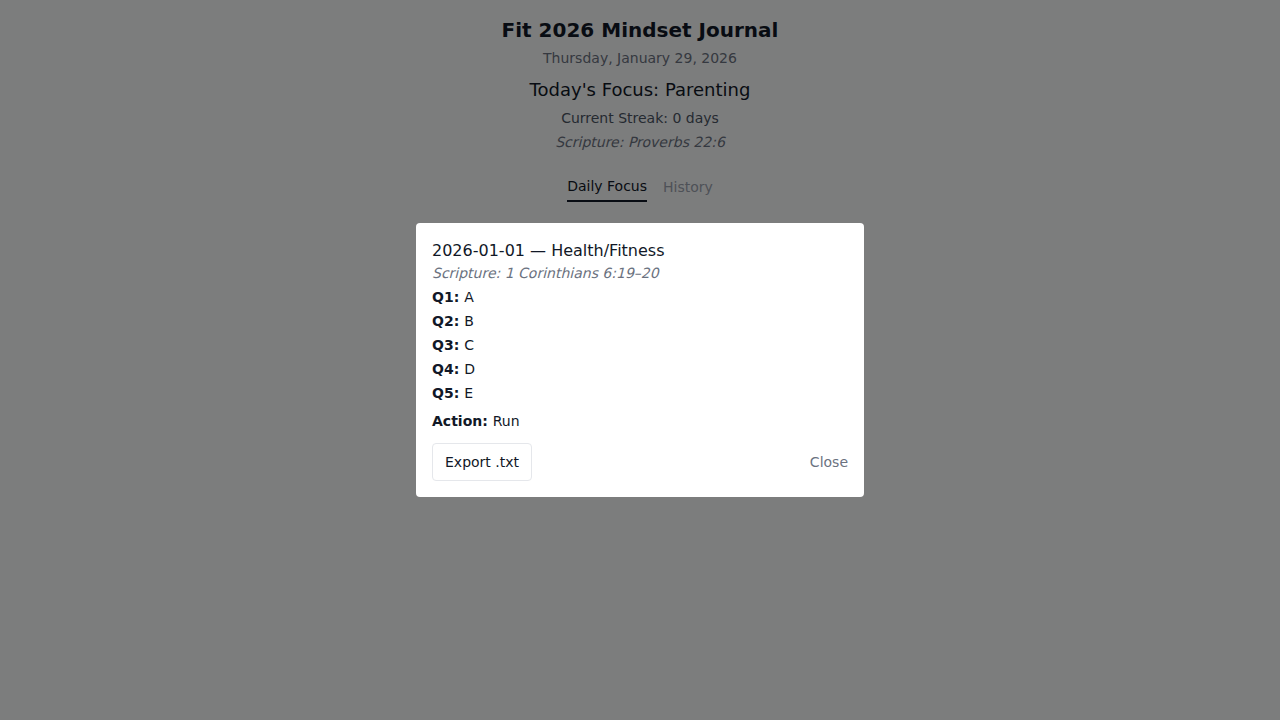
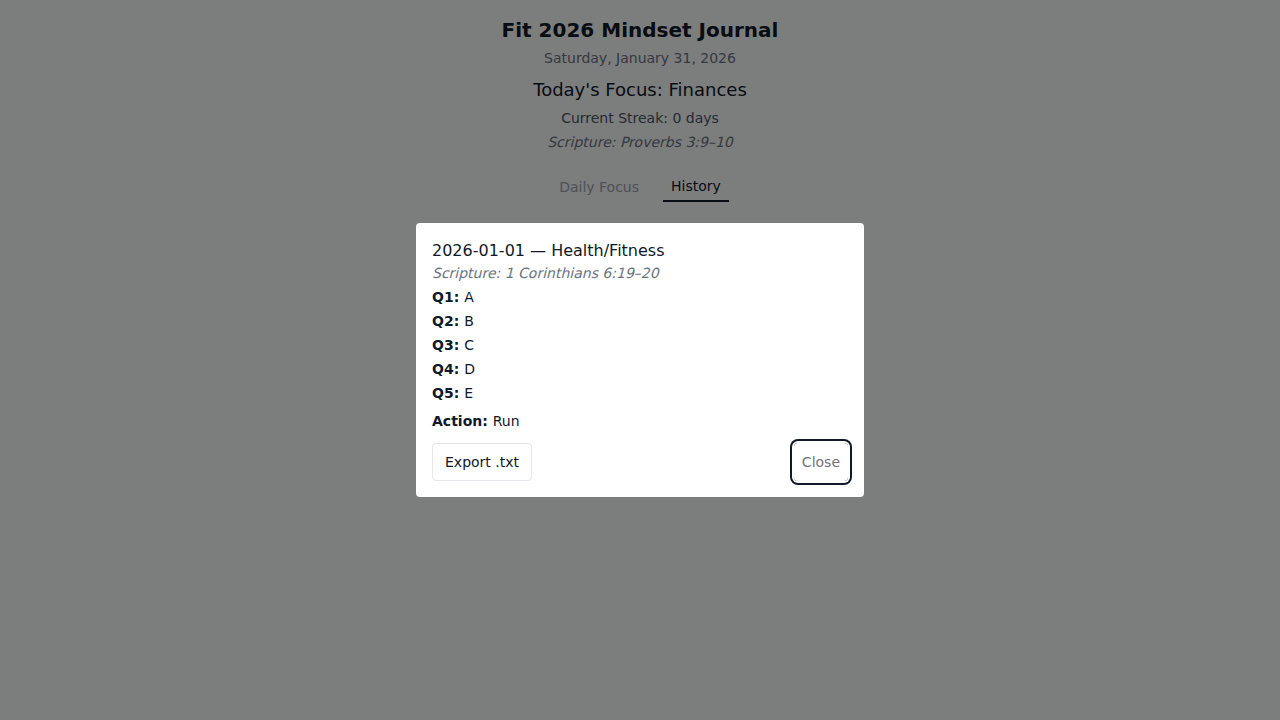
feat(a11y): add focus styles to form inputs and buttons
Added standard Tailwind focus rings (`focus:ring-2`, `focus:ring-gray-900`) to all form inputs, textareas, and interactive buttons.
Added `focus:ring-offset-2` to dark buttons to ensuring visibility.
Added subtle background transition for tabs on focus.

This improves keyboard accessibility and provides clear visual feedback for all users.

diff --git a/index.html b/index.html
@@ -34,10 +34,10 @@
 
   <!-- Tabs -->
   <nav class="flex justify-center gap-4 mb-6">
-    <button id="dailyTab" class="border-b-2 border-gray-900 pb-1 text-sm font-medium">
+    <button id="dailyTab" class="border-b-2 border-gray-900 pb-1 text-sm font-medium focus:outline-none focus:bg-gray-100 rounded-t px-2 transition-colors">
       Daily Focus
     </button>
-    <button id="historyTab" class="pb-1 text-sm font-medium text-gray-400">
+    <button id="historyTab" class="pb-1 text-sm font-medium text-gray-400 focus:outline-none focus:bg-gray-100 rounded-t px-2 transition-colors">
       History
     </button>
   </nav>
@@ -47,32 +47,32 @@
     <form id="journalForm" class="space-y-4">
 
         <label for="q1" class="block text-sm font-medium text-gray-700 mb-1">1. Why does this part of my life matter?</label>
-        <textarea id="q1" class="w-full p-3 border rounded" rows="3" data-question="q1"></textarea>
+        <textarea id="q1" class="w-full p-3 border rounded focus:outline-none focus:ring-2 focus:ring-gray-900 focus:border-transparent transition-shadow" rows="3" data-question="q1"></textarea>
 
         <label for="q2" class="block text-sm font-medium text-gray-700 mb-1">2. Where do I want to be as far as this theme?</label>
-        <textarea id="q2" class="w-full p-3 border rounded" rows="3" data-question="q2"></textarea>
+        <textarea id="q2" class="w-full p-3 border rounded focus:outline-none focus:ring-2 focus:ring-gray-900 focus:border-transparent transition-shadow" rows="3" data-question="q2"></textarea>
 
         <label for="q3" class="block text-sm font-medium text-gray-700 mb-1">3. What might I be doing if I cared about this more?</label>
-        <textarea id="q3" class="w-full p-3 border rounded" rows="3" data-question="q3"></textarea>
+        <textarea id="q3" class="w-full p-3 border rounded focus:outline-none focus:ring-2 focus:ring-gray-900 focus:border-transparent transition-shadow" rows="3" data-question="q3"></textarea>
 
         <label for="q4" class="block text-sm font-medium text-gray-700 mb-1">4. What is one small improvement I can make?</label>
-        <textarea id="q4" class="w-full p-3 border rounded" rows="3" data-question="q4"></textarea>
+        <textarea id="q4" class="w-full p-3 border rounded focus:outline-none focus:ring-2 focus:ring-gray-900 focus:border-transparent transition-shadow" rows="3" data-question="q4"></textarea>
 
         <label for="q5" class="block text-sm font-medium text-gray-700 mb-1">5. What resistance do I need to overcome?</label>
-        <textarea id="q5" class="w-full p-3 border rounded" rows="3" data-question="q5"></textarea>
+        <textarea id="q5" class="w-full p-3 border rounded focus:outline-none focus:ring-2 focus:ring-gray-900 focus:border-transparent transition-shadow" rows="3" data-question="q5"></textarea>
 
       <label for="actionItem" class="block text-sm font-medium text-gray-700 mb-1">Action Item</label>
-      <input id="actionItem" type="text" class="w-full p-3 border rounded" />
+      <input id="actionItem" type="text" class="w-full p-3 border rounded focus:outline-none focus:ring-2 focus:ring-gray-900 focus:border-transparent transition-shadow" />
 
       <p class="text-sm text-gray-500 italic text-center">
         Now, pray God will bless your efforts in this area.
       </p>
 
-      <button class="bg-gray-900 text-white py-3 rounded w-full text-sm font-medium">
+      <button class="bg-gray-900 text-white py-3 rounded w-full text-sm font-medium focus:outline-none focus:ring-2 focus:ring-gray-900 focus:ring-offset-2">
         Save Entry
       </button>
 
-      <button type="button" id="calendarBtn" class="border border-gray-900 py-3 rounded w-full text-sm font-medium">
+      <button type="button" id="calendarBtn" class="border border-gray-900 py-3 rounded w-full text-sm font-medium focus:outline-none focus:ring-2 focus:ring-gray-900 focus:ring-offset-2">
         Add Action Item to Calendar
       </button>
 
@@ -82,13 +82,13 @@
   <!-- HISTORY VIEW -->
   <section id="historyView" class="hidden">
     <div id="statsContainer" class="mb-4 space-y-4"></div>
-    <select id="themeFilter" class="w-full p-2 border rounded mb-4 text-sm">
+    <select id="themeFilter" class="w-full p-2 border rounded mb-4 text-sm focus:outline-none focus:ring-2 focus:ring-gray-900 focus:border-transparent transition-shadow">
       <option value="all">All Themes</option>
     </select>
 
     <div id="historyList" class="space-y-4"></div>
 
-    <button id="exportAllBtn" class="border border-gray-900 py-3 rounded w-full text-sm font-medium mt-4">
+    <button id="exportAllBtn" class="border border-gray-900 py-3 rounded w-full text-sm font-medium mt-4 focus:outline-none focus:ring-2 focus:ring-gray-900 focus:ring-offset-2">
       Export All to CSV
     </button>
   </section>
@@ -100,8 +100,8 @@
   <div class="bg-white rounded p-4 max-w-md w-full space-y-3">
     <div id="modalContent"></div>
     <div class="flex gap-2">
-      <button id="exportBtn" class="border px-3 py-2 rounded text-sm">Export .txt</button>
-      <button onclick="closeModal()" id="closeModalBtn" class="ml-auto text-sm text-gray-500">Close</button>
+      <button id="exportBtn" class="border px-3 py-2 rounded text-sm focus:outline-none focus:ring-2 focus:ring-gray-900 focus:ring-offset-2">Export .txt</button>
+      <button onclick="closeModal()" id="closeModalBtn" class="ml-auto text-sm text-gray-500 rounded px-2 focus:outline-none focus:ring-2 focus:ring-gray-900 focus:ring-offset-2">Close</button>
     </div>
   </div>
 </div>

diff --git a/verification/verify_focus.py b/verification/verify_focus.py
@@ -1,0 +1,25 @@
+
+from playwright.sync_api import sync_playwright
+
+def test_focus_styles(page):
+    page.goto("http://localhost:8000/index.html")
+
+    # Focus q1
+    page.locator("#q1").focus()
+    # Wait for transition
+    page.wait_for_timeout(300)
+    page.screenshot(path="verification/focus_textarea.png")
+
+    # Focus Save Button
+    page.get_by_role("button", name="Save Entry").focus()
+    page.wait_for_timeout(300)
+    page.screenshot(path="verification/focus_button.png")
+
+    print("Screenshots taken")
+
+if __name__ == "__main__":
+    with sync_playwright() as p:
+        browser = p.chromium.launch()
+        page = browser.new_page()
+        test_focus_styles(page)
+        browser.close()

diff --git a/.Jules/palette.md b/.Jules/palette.md
@@ -9,3 +9,7 @@
 ## 2026-01-30 - Empty State Guidance
 **Learning:** Empty lists in the 'History' view caused confusion, appearing broken or loading indefinitely. A blank state provides no direction.
 **Action:** Always implement a friendly empty state for lists, distinguishing between "no data ever" (onboarding opportunity) and "no matching data" (filter feedback).
+
+## 2026-01-31 - Div Buttons Anti-Pattern
+**Learning:** The History list items were implemented as `div`s with `onclick`, making them invisible to keyboard navigation. This blocks core functionality for keyboard users.
+**Action:** Always use `<button>` for interactive elements, or if `div` is necessary for layout, ensure `role="button"`, `tabindex="0"`, and `onkeydown` (Enter/Space) are implemented.
